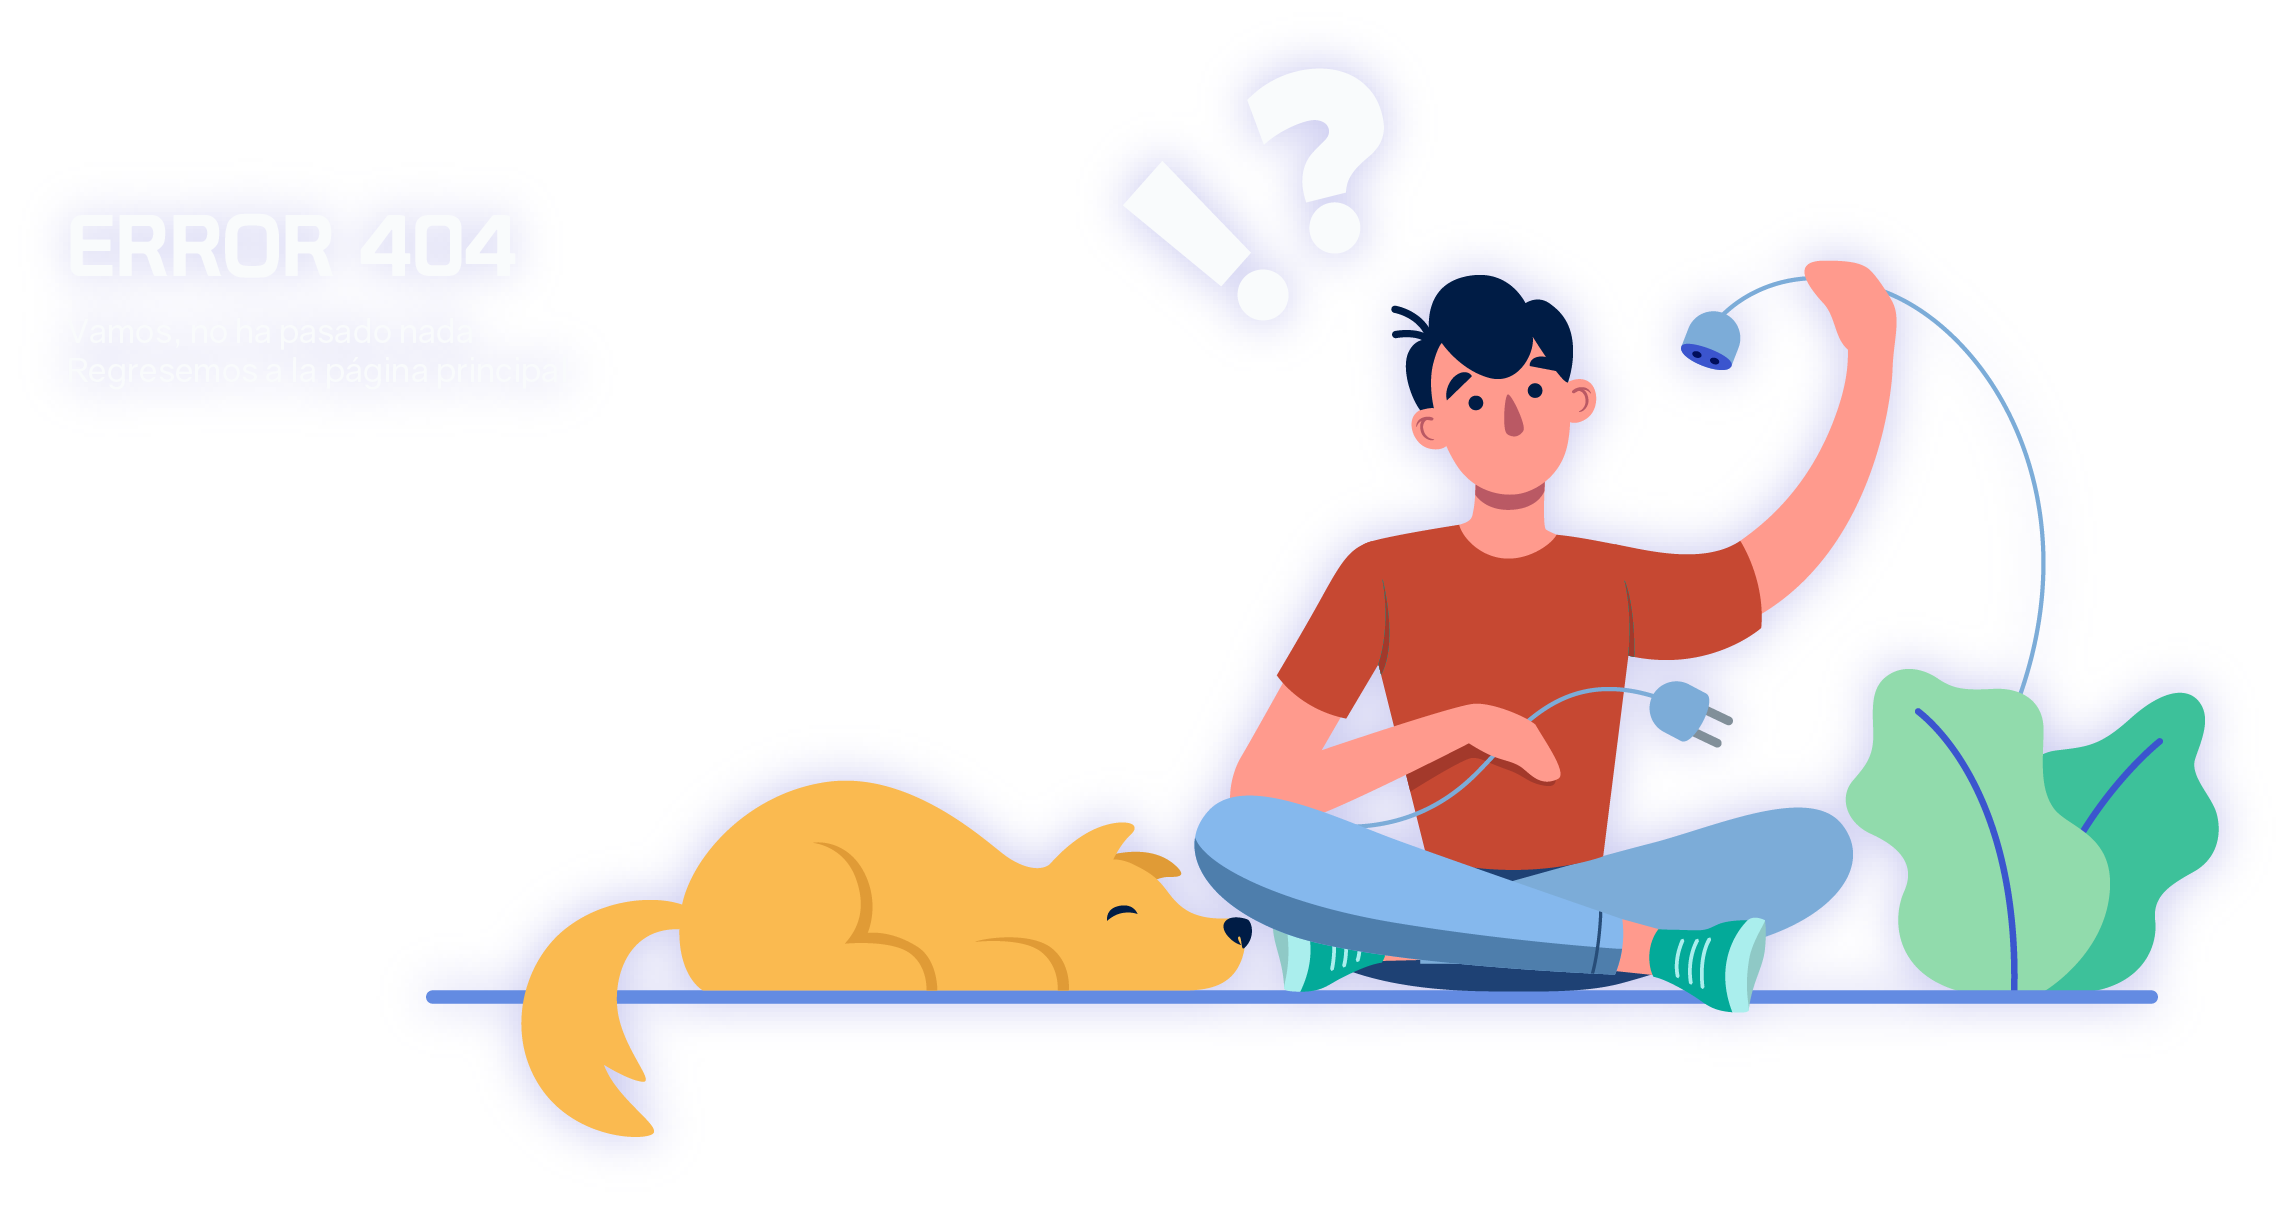
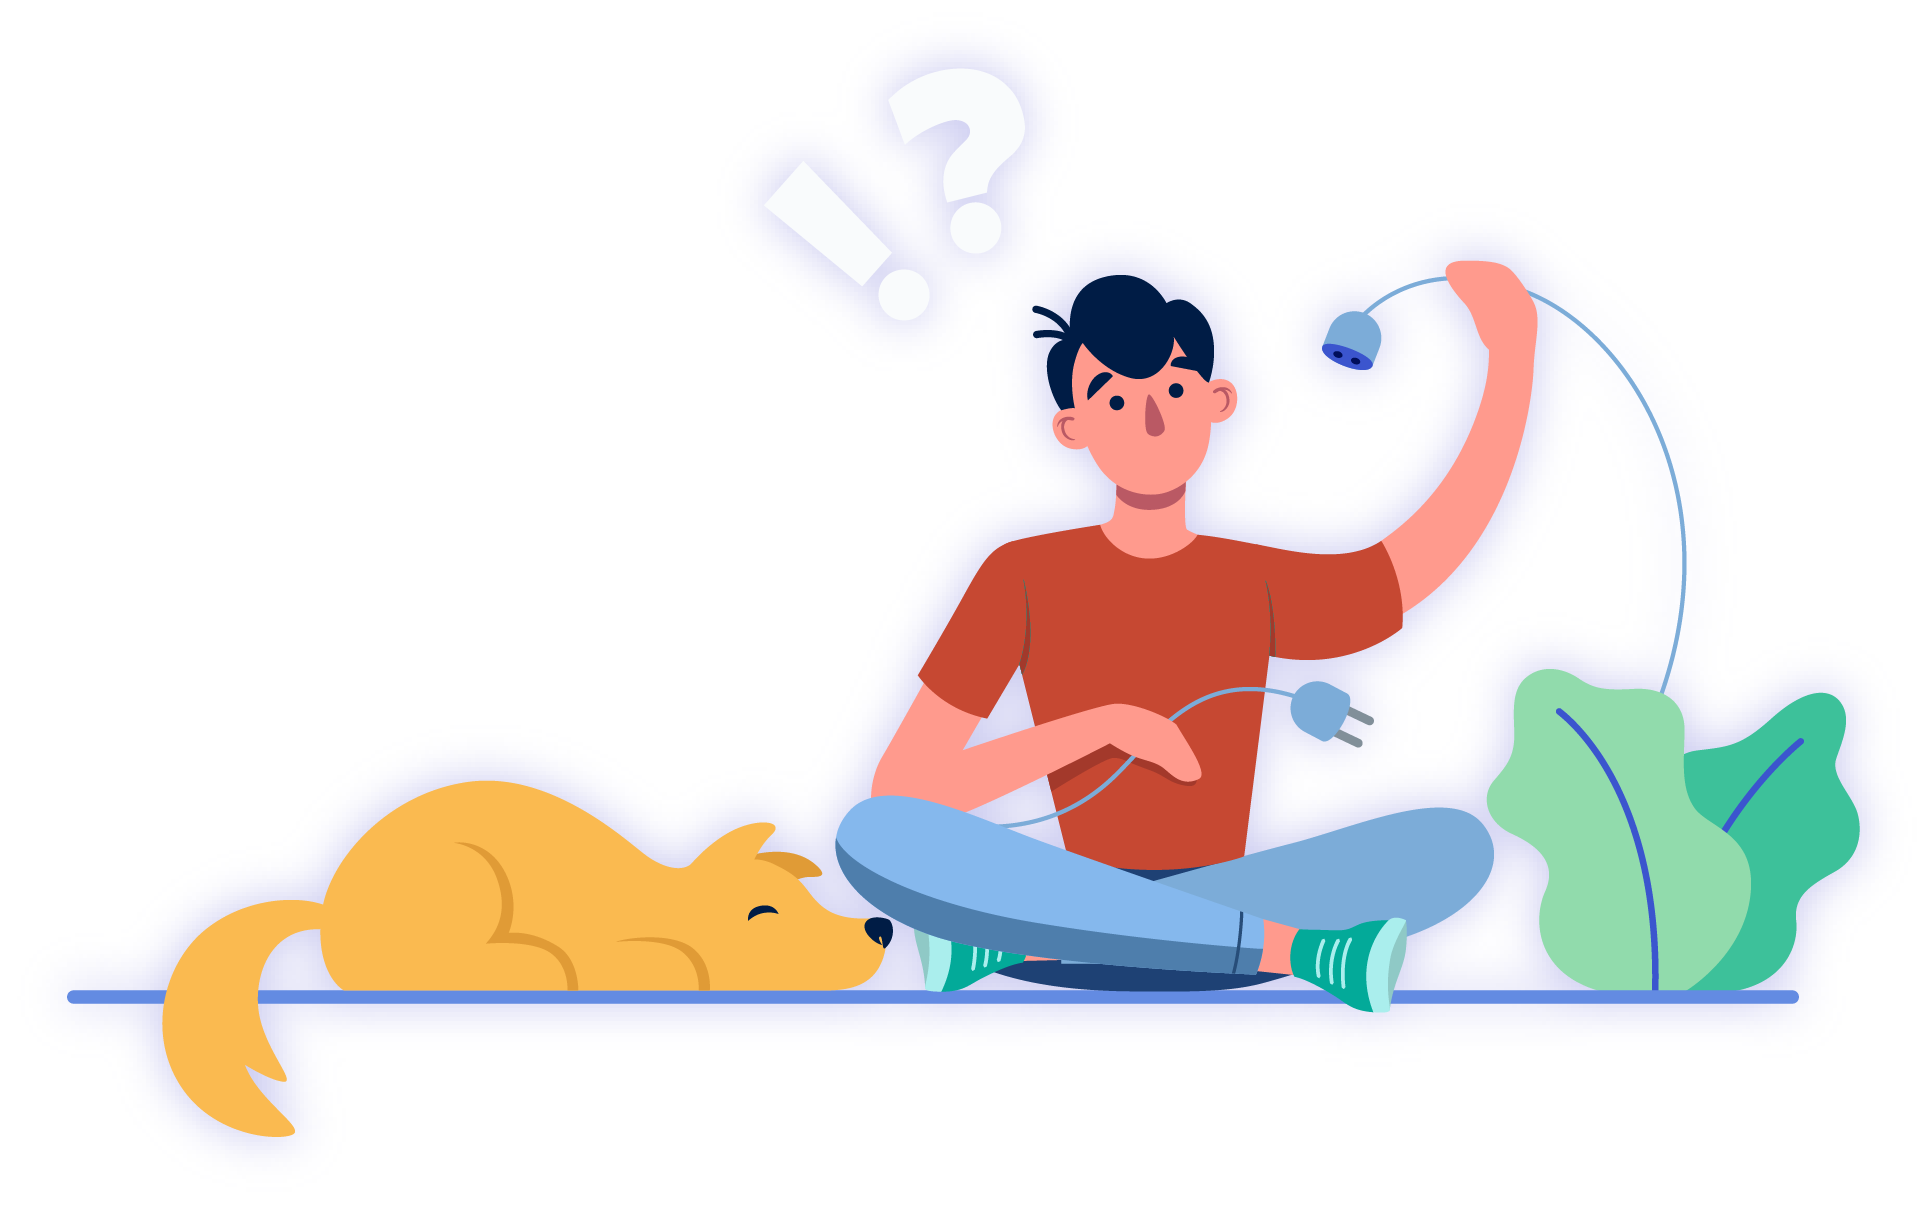
Responsive v1.5.5 & 404 troubleshooting fixed

diff --git a/index.html b/index.html
@@ -53,14 +53,16 @@
 
         <div class="container">
             <nav class="nav-main">
-                <img
-                    src="./img/logo.png"
-                    alt="CYBERsmartness Logo"
-                    class="nav-logo"
-                />
+                <a href="index.html">
+                    <img
+                        src="./img/logo.png"
+                        alt="CYBERsmartness Logo"
+                        class="nav-logo"
+                    />
+                </a>
                 <ul class="nav-menu">
                     <li>
-                        <a href="#">INICIO</a>
+                        <a href="index.html">INICIO</a>
                     </li>
                     <li class="submenu">
                         <a href="#" class="caret">EMPRESA</a>
@@ -80,16 +82,27 @@
                         <a href="#">SERVICIOS</a>
                         <ul class="children">
                             <li>
-                                <a href="#">MANTENIMIENTO Y REPARACIÓN DE COMPUTADORAS</a>
+                                <a href="#"
+                                    >MANTENIMIENTO Y REPARACIÓN DE
+                                    COMPUTADORAS</a
+                                >
                             </li>
                             <li>
-                                <a href="#">SERVICIOS DE DISEÑO GRÁFICO, MULTIMEDIA Y OFIMÁTICA</a>
+                                <a href="#"
+                                    >SERVICIOS DE DISEÑO GRÁFICO, MULTIMEDIA Y
+                                    OFIMÁTICA</a
+                                >
                             </li>
                             <li>
-                                <a href="#">SERVICIOS DE PROGRAMACIÓN Y DISEÑO WEB</a>
+                                <a href="#"
+                                    >SERVICIOS DE PROGRAMACIÓN Y DISEÑO WEB</a
+                                >
                             </li>
                             <li>
-                                <a href="#">VENTA DE ACCESORIOS Y PRODUCTOS TECNOLÓGICOS</a>
+                                <a href="#"
+                                    >VENTA DE ACCESORIOS Y PRODUCTOS
+                                    TECNOLÓGICOS</a
+                                >
                             </li>
                         </ul>
                     </li>
@@ -102,7 +115,6 @@
                             <li>
                                 <a href="#">ACADEMIA DE EXPERTOS</a>
                             </li>
-
                         </ul>
                     </li>
                     <li>
@@ -128,9 +140,9 @@
                             alt="CYBERsmartness"
                             style="width: 170px;" /><br
                     /></b>
-                    <br/>
-                    Tenemos los productos y servicios informáticos que
-                    necesitas al alcance de tu mano. <br />
+                    <br />
+                    Tenemos los productos y servicios informáticos que necesitas
+                    al alcance de tu mano. <br />
                     Atención profesional garantizada. 💯 <br />
                     #InformáticaResponsable 💡
                 </p>
@@ -233,7 +245,7 @@
                         </a>
                     </li>
                     <li>
-                        <a href="#">Inicio</a>
+                        <a href="index.html">Inicio</a>
                     </li>
                     <li>
                         <a href="#">Empresa</a>
@@ -242,7 +254,7 @@
                         <a href="#">Servicios</a>
                     </li>
                     <li>
-                        <a href="#">Cibernético</a>
+                        <a href="#">Responsabilidad Social</a>
                     </li>
                     <li>
                         <a href="#">Contacto</a>
@@ -275,7 +287,7 @@
                 <ul>
                     <li>
                         <a>
-                            <h3>Proyección Social</h3>
+                            <h3>Más información</h3>
                         </a>
                     </li>
                     <li>

diff --git a/404.html b/404.html
@@ -40,12 +40,14 @@
         />
         <link rel="manifest" href="/site.webmanifest" />
         <link rel="mask-icon" href="/safari-pinned-tab.svg" color="#5bbad5" />
+        <script src="https://code.jquery.com/jquery-latest.js"></script>
+
         <meta name="msapplication-TileColor" content="#da532c" />
         <meta name="theme-color" content="#ffffff" />
     </head>
 
     <body>
-        <div class="menu-btn">
+        <div class="menu-btn menu_bar">
             <i class="fas fa-bars fa-2x"></i>
         </div>
 
@@ -60,14 +62,48 @@
                     <li>
                         <a href="#">INICIO</a>
                     </li>
-                    <li>
-                        <a href="#">EMPRESA</a>
+                    <li class="submenu">
+                        <a href="#" class="caret">EMPRESA</a>
+                        <ul class="children">
+                            <li>
+                                <a href="#">¿QUIENES SOMOS?</a>
+                            </li>
+                            <li>
+                                <a href="#">MISIÓN</a>
+                            </li>
+                            <li>
+                                <a href="#">VISIÓN</a>
+                            </li>
+                        </ul>
                     </li>
-                    <li>
+                    <li class="submenu">
                         <a href="#">SERVICIOS</a>
+                        <ul class="children">
+                            <li>
+                                <a href="#">MANTENIMIENTO Y REPARACIÓN DE COMPUTADORAS</a>
+                            </li>
+                            <li>
+                                <a href="#">SERVICIOS DE DISEÑO GRÁFICO, MULTIMEDIA Y OFIMÁTICA</a>
+                            </li>
+                            <li>
+                                <a href="#">SERVICIOS DE PROGRAMACIÓN Y DISEÑO WEB</a>
+                            </li>
+                            <li>
+                                <a href="#">VENTA DE ACCESORIOS Y PRODUCTOS TECNOLÓGICOS</a>
+                            </li>
+                        </ul>
                     </li>
-                    <li>
-                        <a href="#">CIBERNÉTICO</a>
+                    <li class="submenu">
+                        <a href="#">RESPONSABILIDAD SOCIAL</a>
+                        <ul class="children">
+                            <li>
+                                <a href="#">#CYBERQuotes</a>
+                            </li>
+                            <li>
+                                <a href="#">ACADEMIA DE EXPERTOS</a>
+                            </li>
+
+                        </ul>
                     </li>
                     <li>
                         <a href="#">CONTACTO</a>
@@ -83,16 +119,15 @@
             </nav>
             <hr />
 
-            <!-- SHOWCASE -->
-            <!-- SHOWCASE -->
-            <header class="not-found">
-                <a
-                    href="./index.html"
-                    class="button nf-button"
-                    >INICIO<i class="fas fa-angle-double-right"></i
-                ></a>
-            </header>
-
+            <!-- NOT FOUND -->
+            
+            <img src="./img/404.png" alt="" class="not-found">
+            <div class="not-found-div">
+                <h1>ERROR 404: NOT FOUND</h1>
+                <p>Vamos, no ha pasado nada <br> Regresemos a la página principal</p>
+                <a href="index.html" class="button">INICIO</a>
+            </div>
+            
             <section class="social">
                 <p>¡Siguenos en nuestras redes!</p>
                 <div class="links">

diff --git a/style.css b/style.css
@@ -51,10 +51,11 @@ ul {
 }
 
 .nav-main ul li a {
-    padding: 2px;
+    padding: 0.15px;
 }
 
 .nav-main ul li a:hover {
+    margin-bottom: 1px;
     border-bottom: 2px solid #ffffff;
 }
 
@@ -75,7 +76,7 @@ ul, ol {
 .nav-main ul li:hover .children {
 	display:block;
 }
- 
+
 .nav-main ul li .children {
     display: none;
     top: 63px;
@@ -84,14 +85,14 @@ ul, ol {
     width: auto;
 	z-index:1000;
 }
- 
+
 .nav-main ul li .children li {
 	display:block;
     overflow: hidden;
     padding: 10px;
 	border-bottom: 1px solid rgba(255, 255, 255, 0.678);
 }
- 
+
 .nav-main ul li .children li a {
     display: block;
 }
@@ -146,20 +147,15 @@ hr {
     margin-bottom: 10px;
 }
 
-.not-found {
-    width: 100%;
-    height: 570px;
-    background: url("./img/404.png") no-repeat center center/cover;
-    padding-bottom: 50px;
-    margin-bottom: 20px;
-    display: flex;
-    flex-direction: column;
-    align-items: center;
-    justify-content: center;
+.not-found{
+    display:block;
+    margin:auto;
+    width: 40%;
+    height: 30%; 
 }
 
-.nf-button{
-    margin-right: 1055px; margin-bottom: 100px;
+.not-found-div{
+    text-align: center;
 }
 
 /* MENU BUTTON */
@@ -269,7 +265,7 @@ hr {
 
 /* MEDIA QUERIES */
 
-@media (max-width: 700px) {
+@media (max-width: 768px) {
     .nav-main ul li a:hover {
         border-bottom: 0.5px solid #ffffff;
     }
@@ -314,13 +310,10 @@ hr {
         margin-right: 50px;
     }
 
-    
-    
- 
 	.nav-main ul li:hover .children {
 		display: none;
 	}
- 
+
 	.nav-main ul li .children {
 		width: 100%;
         position: initial;
@@ -328,7 +321,7 @@ hr {
         margin-bottom: 0px;
         background:#ffffff00;
 	}
- 
+
 	.nav-main ul li .children li a {
         margin-left:0px;
 	}
@@ -337,10 +330,6 @@ hr {
         grid-template-columns: repeat(2, 1fr);
     }
 
-    .not-found{
-        width: 100%;
-        height: 10em;
-    }
 
     .text{
         font-size: 1em;
@@ -359,11 +348,6 @@ hr {
 @media (max-width: 500px) {
     .help-cards {
         grid-template-columns: 1fr;
-    }
-    
-    .not-found{
-        width: 100%;
-        height: 11em;
     }
 
     .cards-banner-one .content,
